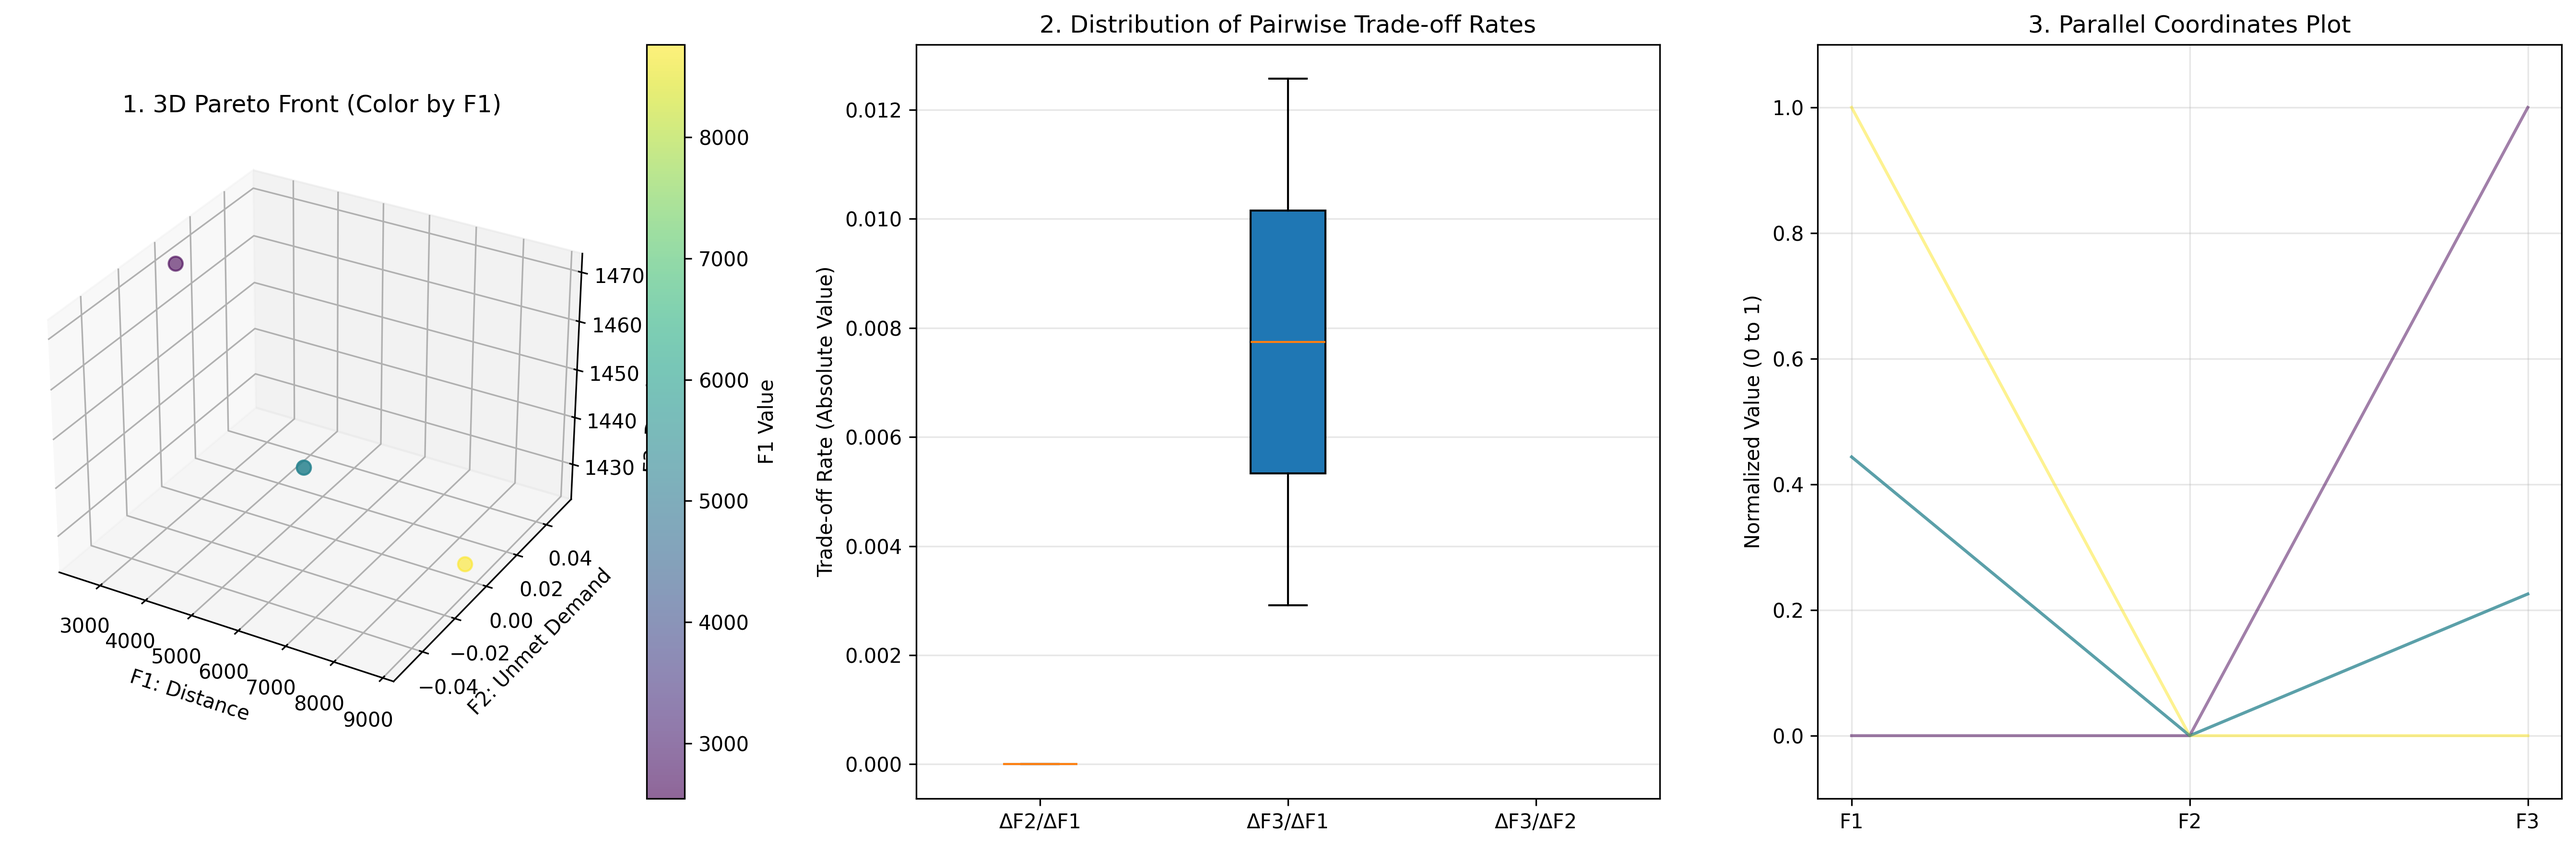
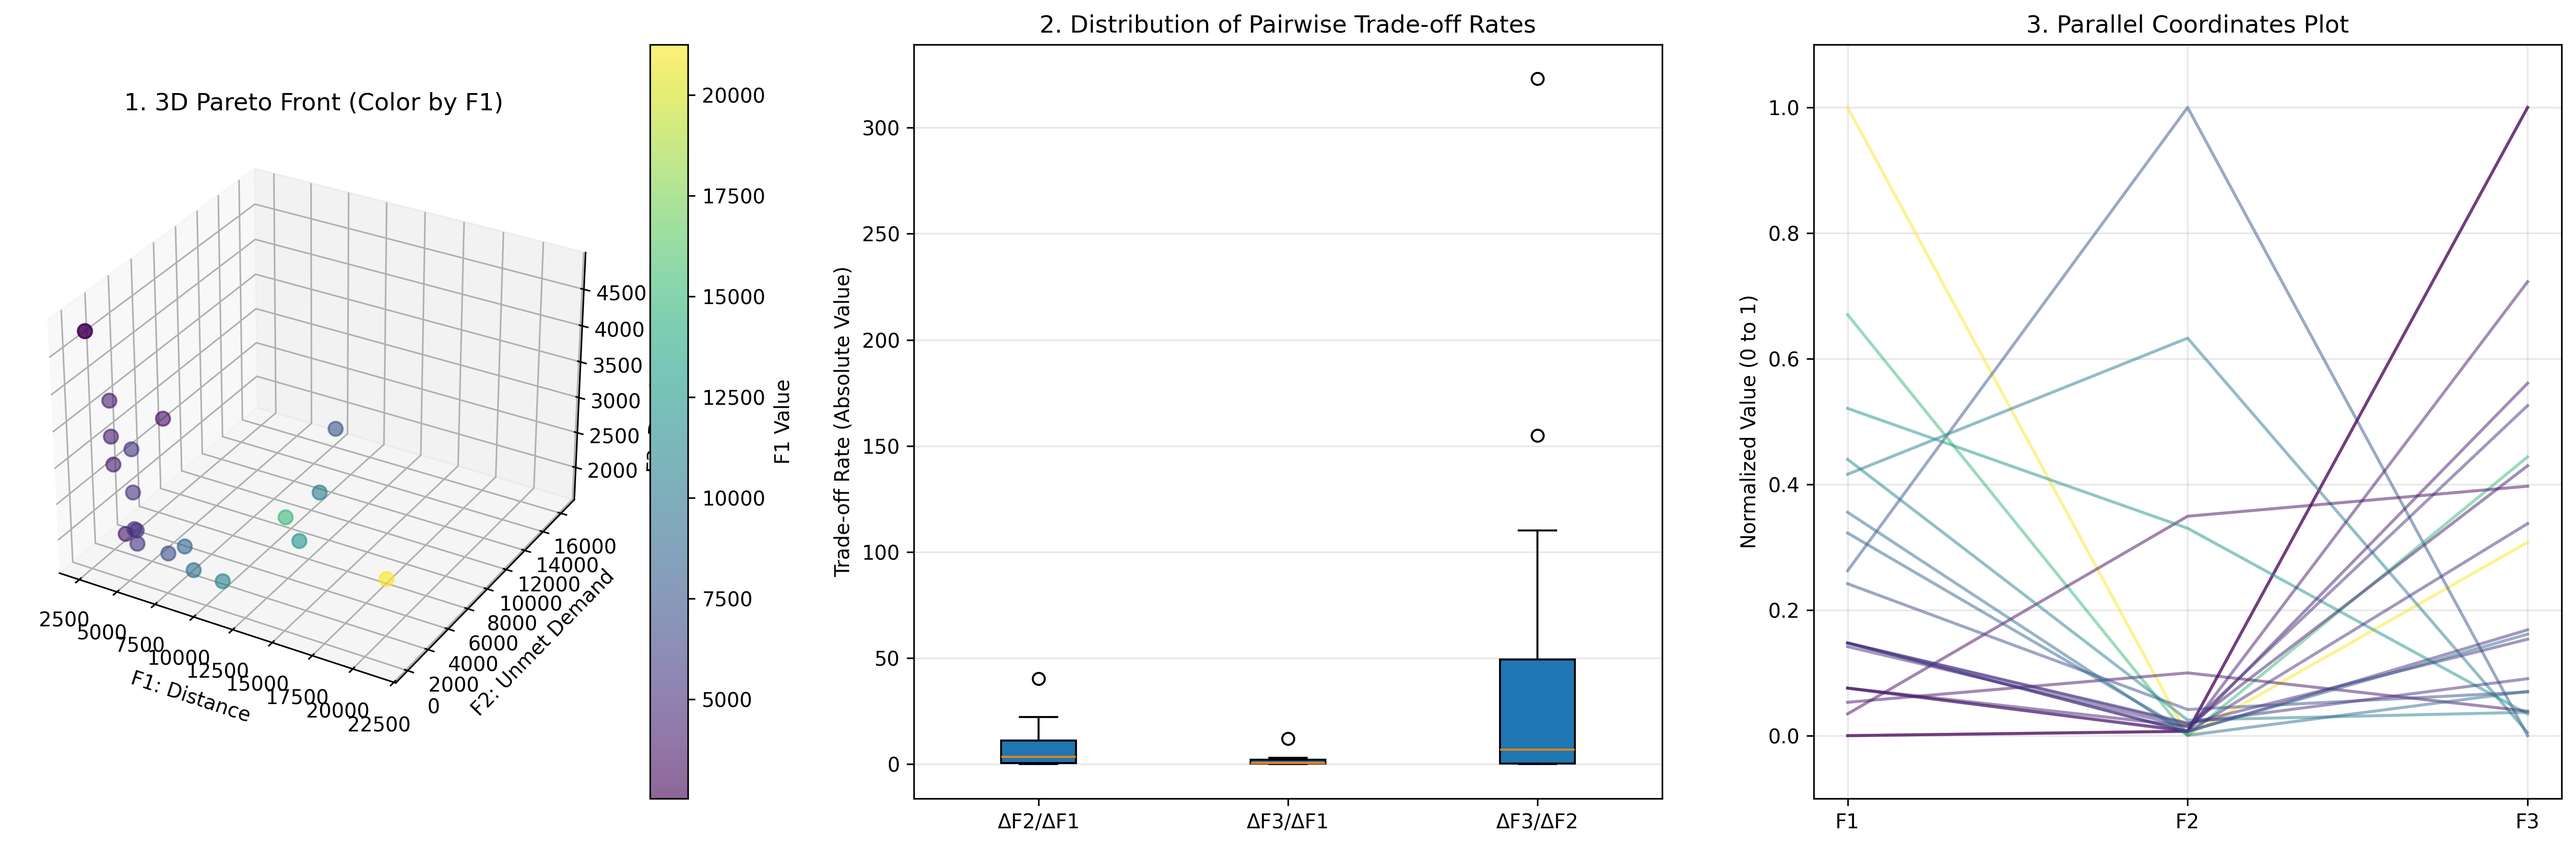
NSGA-II: 1. using normal costs for calculating crowding distance 2. using monte carlo method for calculating hypervolume

diff --git a/Python_Codes/NSGA_II_HSC/hyper_volume.py b/Python_Codes/NSGA_II_HSC/hyper_volume.py
@@ -49,21 +49,19 @@ class Hypervolume3D:
             self.reference_point = self._auto_reference_point(pareto_front)
         
         # نرمالسازی
-        normalized_pf = self._normalize(pareto_front, self.reference_point)
+        # normalized_pf = self._normalize(pareto_front, self.reference_point)
                 
         # انتخاب روش محاسبه
         if method == 'wfg':
-            hv = self._wfg_algorithm(normalized_pf)
+            hv = self._wfg_algorithm(pareto_front)
         elif method == 'inclusion_exclusion':
-            hv = self._inclusion_exclusion(normalized_pf)
+            hv = self._inclusion_exclusion(pareto_front)
         elif method == 'monte_carlo':
-            hv = self._monte_carlo(normalized_pf, n_samples=100000)
+            hv = self._monte_carlo(pareto_front=pareto_front, ref_point=self.reference_point, n_samples=100000)
         else:
             raise ValueError(f"روش نامعتبر: {method}")
         
-        # de-normalize
-        volume_factor = np.prod(self.reference_point)
-        return hv * volume_factor
+        return hv
     
     def _auto_reference_point(self, pareto_front: np.ndarray, margin: float = 0.1) -> np.ndarray:
         """
@@ -304,7 +302,8 @@ class Hypervolume3D:
     
     # ================== Monte Carlo Approximation ==================
     
-    def _monte_carlo(self, pareto_front: np.ndarray, n_samples: int = 100000) -> float:
+    def _monte_carlo(self, pareto_front: np.ndarray,ref_point: np.ndarray,
+                   ideal_point: np.ndarray = None, n_samples: int = 100000) -> float:
         """
         تقریب Monte Carlo برای Hypervolume
         
@@ -321,26 +320,33 @@ class Hypervolume3D:
         --------
         تقریب hypervolume
         """
-        if len(pareto_front) == 0:
+        if pareto_front.size == 0:
             return 0.0
         
-        # تولید نقاط تصادفی در فضای [0, 1]^3
-        random_points = np.random.uniform(0, 1, size=(n_samples, 3))
-        
-        # شمارش نقاطی که توسط حداقل یک جواب dominate میشوند
-        dominated_count = 0
-        
-        for point in random_points:
-            # آیا این نقطه توسط حداقل یکی از جوابهای pareto dominated میشود؟
-            is_dominated = np.any(np.all(pareto_front <= point, axis=1))
-            
-            if is_dominated:
-                dominated_count += 1
-        
-        # تخمین hypervolume
-        hypervolume = dominated_count / n_samples
-        
-        return hypervolume
+        # 1) ideal point
+        if ideal_point is None:
+            ideal_point = np.min(pareto_front, axis=0)
+
+        # 2) guard: ref must dominate (be worse than) all points
+        # if any ref <= ideal in a dim, expand it a bit
+        span = ref_point - ideal_point
+        span[span <= 0] = 1.0  # avoid zero/neg span
+
+        # 3) normalize PF into [0,1]^3
+        pf_norm = (pareto_front - ideal_point) / span
+        pf_norm = np.clip(pf_norm, 0.0, 1.0)
+
+        # 4) sample in the same cube
+        rnd = np.random.uniform(0.0, 1.0, size=(n_samples, pf_norm.shape[1]))
+
+        # 5) dominance test (vectorized):
+        # a rnd point x is dominated if exists s in PF with s <= x (componentwise)
+        # shape tricks: compare all rnd to all pf
+        # pf_norm[None, :, :] -> (1, N, M); rnd[:, None, :] -> (S, 1, M)
+        dominated_by_any = np.all(pf_norm[None, :, :] <= rnd[:, None, :], axis=2).any(axis=1)
+
+        hv = dominated_by_any.mean()  # in [0,1]
+        return float(hv)
 
 
 # ================== تابع کمکی برای استفاده آسان ==================

diff --git a/Python_Codes/NSGA_II_HSC/nsga2.py b/Python_Codes/NSGA_II_HSC/nsga2.py
@@ -286,6 +286,7 @@ class NSGA2_Humanitarian:
         empty_individual = {
             'chromosome': None,
             'cost': None,
+            'normal_cost': None,
             'rank': None,
             'crowding_distance': None,
             'constriant_violation': 0
@@ -299,9 +300,10 @@ class NSGA2_Humanitarian:
         chromosom_list = []
         for p in pop:
             chromosom_list.append(p['chromosome'])
-        costs, constriants_violation = cost_function(chromosom_list)
+        costs, constriants_violation, normal_cost = cost_function(chromosom_list)
         for idx, i in enumerate(costs):
             pop[idx]['cost'] = np.array(i)
+            pop[idx]['normal_cost'] = np.array(normal_cost[idx])
             pop[idx]['constriant_violation'] = constriants_violation[idx]
         
         # Non-dominated sorting
@@ -367,11 +369,12 @@ class NSGA2_Humanitarian:
                     new_chromosomes.append(pop[i]['chromosome'])
             
             if new_chromosomes:
-                costs, constraints_violation = cost_function(new_chromosomes)
+                costs, constraints_violation, normal_costs = cost_function(new_chromosomes)
                 new_idx = 0
                 for i in range(len(elite_individuals), len(pop)):
                     if pop[i]['cost'] is None:
                         pop[i]['cost'] = np.array(costs[new_idx])
+                        pop[i]['normal_cost'] = np.array(normal_costs[new_idx])
                         pop[i]['constriant_violation'] = constraints_violation[new_idx]
                         new_idx += 1
             
@@ -474,7 +477,7 @@ class NSGA2_Humanitarian:
         n_obj = len(pop[0]['cost'])
         
         for k in range(parto_count):
-            costs = np.array([pop[i]['cost'] for i in F[k]])
+            costs = np.array([pop[i]['normal_cost'] for i in F[k]])
             n = len(F[k])
             d = np.zeros((n, n_obj))
             

diff --git a/Python_Codes/NSGA_II_HSC/convergence_metrics.py b/Python_Codes/NSGA_II_HSC/convergence_metrics.py
@@ -3,6 +3,7 @@ import matplotlib.pyplot as plt
 from scipy.spatial.distance import cdist, pdist, squareform
 from hyper_volume import calculate_hypervolume_3d
 from pymoo.indicators.hv import HV
+from copy import deepcopy
 class ConvergenceMetrics:
     """
     کلاس محاسبه شاخصهای همگرایی برای الگوریتمهای چندهدفه
@@ -79,7 +80,7 @@ class ConvergenceMetrics:
         hv = calculate_hypervolume_3d(
             pareto_front, 
             reference_point=reference_point,
-            method='wfg'  # دقیقترین روش
+            method='monte_carlo'  # دقیقترین روش
         )
         
         return hv
@@ -307,7 +308,7 @@ class ConvergenceMetrics:
                 igd = self.inverted_generational_distance(pareto_front, true_pareto_front)
                 self.gd_history.append(gd)
                 self.igd_history.append(igd)
-        self.normalized_hypervolume = self.normalize_list(hypervolume_history)
+        self.normalized_hypervolume = deepcopy(hypervolume_history)
         self.normalized_spacing = self.normalize_list(spacing_history)
         self.normalized_spread = self.normalize_list(spread_history)
         self.normalized_diversity = self.normalize_list(diversity_history)

diff --git a/Python_Codes/NSGA_II_HSC/main.py b/Python_Codes/NSGA_II_HSC/main.py
@@ -271,7 +271,8 @@ class Main():
         F2_normalized = [(f2 - min(F2)) / (max(F2) - min(F2)) for f2 in F2]
         F3_normalized = [(f3 - min(F3)) / (max(F3) - min(F3)) for f3 in F3]
         result_list_of_lists = [list(t) for t in zip(F1, F2, F3)]
-        return result_list_of_lists, constriant_violation
+        normalize_result_list_of_lists = [list(t) for t in zip(F1_normalized, F2_normalized, F3_normalized)]
+        return result_list_of_lists, constriant_violation, normalize_result_list_of_lists
 
 
     def allocate_population_under_capacity(self, da_ec: dict):
